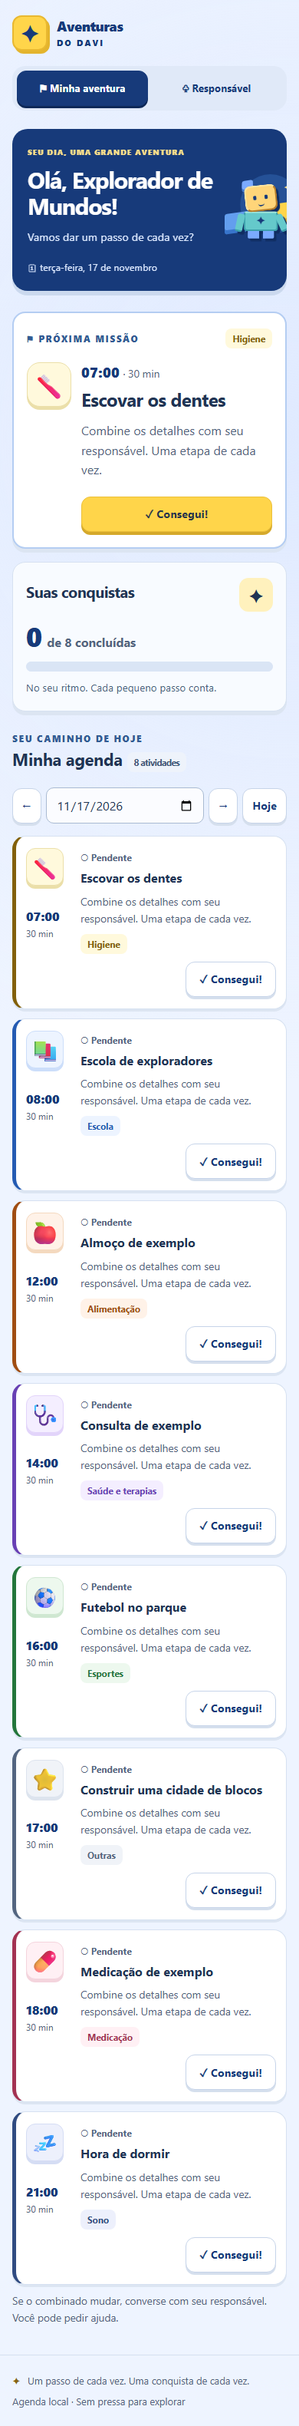
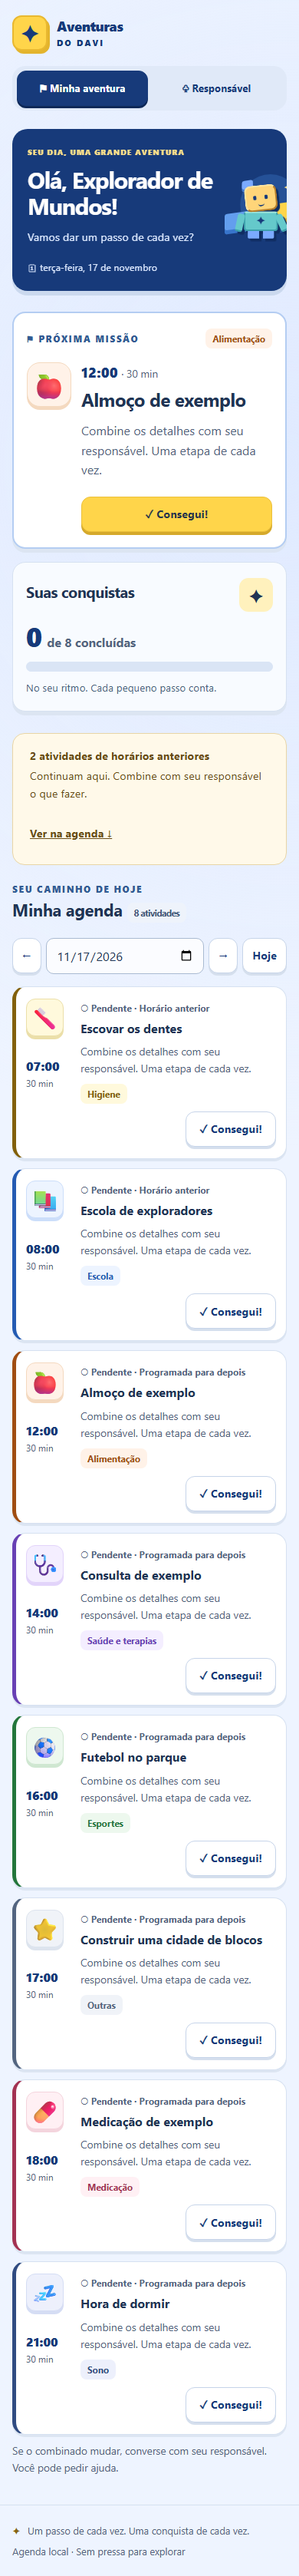
fix: ajustar categorias e distinguir pendencias de horarios anteriores

Changed region(s): [[0.0308, 0.0, 0.9846, 0.9921]]

diff --git a/app.js b/app.js
@@ -138,7 +138,7 @@ function layout(html) {
   nav();
   if (inside) {
     const match = [
-      ...$("content").querySelectorAll("button,input,select,textarea"),
+      ...$("content").querySelectorAll("button,input,select,textarea,a"),
     ].find((el) =>
       key.id
         ? el.id === key.id
@@ -197,12 +197,12 @@ function category(e) {
   const rules = [
     [
       "medicine",
-      /\b(medicacao|medicamento|remedio|vitamina|comprimido)\b/,
+      /\b(medicacao|medicamento|remedio|vitamina|comprimido|ferro\s+(?:em\s+)?gotas)\b/,
       ["💊"],
     ],
     [
       "health",
-      /\b(terapia|terapeuta|psicolog[ao]|fono|fisioterapia|consulta|medic[ao]|dentista)\b/,
+      /\b(terapia|terapeuta|psicolog[ao]|psicopedagog(?:[ao]|ia)|fono|fisioterapia|consulta|medic[ao]|dentista)\b/,
       ["🩺", "🧩"],
     ],
     ["sleep", /\b(dormir|sono|descanso|soneca)\b/, ["💤", "🌙", "🛏"]],
@@ -218,7 +218,7 @@ function category(e) {
     ],
     [
       "sport",
-      /\b(futebol|natacao|esporte|basquete|volei|corrida|karate|judo)\b/,
+      /\b(taekwondo|futsal|futebol|natacao|esporte|basquete|volei|corrida|karate|judo)\b/,
       ["⚽", "🏊", "🏀"],
     ],
     [
@@ -258,7 +258,57 @@ function doneButton(e, featured = false) {
     "</button>"
   );
 }
-function eventHtml(e, admin = false) {
+// Compare in the calendar's timezone, independently of the device timezone.
+function calendarClock(now = new Date()) {
+  const parts = Object.fromEntries(
+    new Intl.DateTimeFormat("en-CA", {
+      timeZone: "America/Sao_Paulo",
+      year: "numeric",
+      month: "2-digit",
+      day: "2-digit",
+      hour: "2-digit",
+      minute: "2-digit",
+      hourCycle: "h23",
+    })
+      .formatToParts(now)
+      .map((p) => [p.type, p.value]),
+  );
+  return {
+    date: parts.year + "-" + parts.month + "-" + parts.day,
+    time: parts.hour + ":" + parts.minute,
+  };
+}
+function eventPeriod(e, clock) {
+  if (e.date < clock.date || (e.date === clock.date && e.time < clock.time))
+    return "earlier";
+  return e.date === clock.date && e.time === clock.time ? "now" : "later";
+}
+function dayPlan(events, clock = calendarClock()) {
+  const pending = events.filter((e) => !e.done);
+  return {
+    next: pending.find((e) => eventPeriod(e, clock) !== "earlier"),
+    earlier: pending.filter((e) => eventPeriod(e, clock) === "earlier"),
+  };
+}
+function pendingLabel(e, clock) {
+  return {
+    earlier: "○ Pendente · Horário anterior",
+    now: "○ Pendente · Neste horário",
+    later: "○ Pendente · Programada para depois",
+  }[eventPeriod(e, clock)];
+}
+function earlierNotice(count) {
+  return count
+    ? '<aside class="earlier-notice" aria-label="Pendências de horários anteriores"><div><strong>' +
+        count +
+        " " +
+        (count === 1
+          ? "atividade de horário anterior"
+          : "atividades de horários anteriores") +
+        '</strong><p>Continuam aqui. Combine com seu responsável o que fazer.</p></div><a id="earlierLink" href="#dailyAgenda">Ver na agenda ↓</a></aside>'
+    : "";
+}
+function eventHtml(e, admin = false, clock = calendarClock()) {
   const controls = admin
     ? '<div class="row admin-actions"><button data-action="edit" data-id="' +
       e.id +
@@ -282,7 +332,7 @@ function eventHtml(e, admin = false) {
     ' min</span></div><span class="symbol" aria-hidden="true">' +
     esc(e.icon || "⭐") +
     '</span><div class="info"><span class="state-label">' +
-    (e.done ? "✓ Concluída" : "○ Pendente") +
+    (e.done ? "✓ Concluída" : admin ? "○ Pendente" : pendingLabel(e, clock)) +
     "</span><h3>" +
     esc(e.title) +
     "</h3>" +
@@ -296,7 +346,9 @@ function eventHtml(e, admin = false) {
 function mascot() {
   return '<div class="landscape" aria-hidden="true"><span class="spark">✦</span><div class="block one"></div><div class="block two"></div><div class="block three"></div><div class="mascot"><div class="mascot-feet"></div><div class="mascot-body">✦</div><div class="mascot-head"></div></div></div>';
 }
-function nextMission(e, hasEvents) {
+function nextMission(e, hasEvents, earlierCount = 0) {
+  if (!e && earlierCount)
+    return '<section class="panel mission empty"><span class="symbol" aria-hidden="true">🗓</span><h2>Vamos rever o combinado?</h2><p>Não há próximos horários nesta data. As pendências de horários anteriores continuam na agenda.</p></section>';
   if (!e)
     return (
       '<section class="panel mission empty"><span class="symbol" aria-hidden="true">' +
@@ -339,9 +391,14 @@ async function child() {
   state.view = "child";
   state.date = state.date || state.me.today;
   await fetchCalendar(state.date, state.date);
+  renderChild();
+}
+function renderChild() {
+  const clock = calendarClock();
+  state.childPeriods = periodSignature(clock);
   const es = dayEvents(state.date),
     done = es.filter((e) => e.done).length,
-    next = es.find((e) => !e.done),
+    plan = dayPlan(es, clock),
     pct = es.length ? Math.round((done / es.length) * 100) : 0;
   layout(
     '<div class="hero"><div class="hero-copy"><div class="eyebrow">Seu dia, uma grande aventura</div><h1>Olá, ' +
@@ -353,7 +410,7 @@ async function child() {
       "</div>" +
       tagHoliday(state.date) +
       '<div class="dashboard">' +
-      nextMission(next, es.length > 0) +
+      nextMission(plan.next, es.length > 0, plan.earlier.length) +
       '<section class="panel progress-card" aria-labelledby="progressTitle"><div class="progress-heading"><h2 id="progressTitle">Suas conquistas</h2><span class="progress-icon" aria-hidden="true">✦</span></div><div class="progress-total">' +
       done +
       " <span>de " +
@@ -373,14 +430,17 @@ async function child() {
         ? "Olha só o que você já fez! Cada passo conta."
         : "No seu ritmo. Cada pequeno passo conta.") +
       "</p></section></div>" +
-      '<section aria-labelledby="agendaTitle"><div class="section-heading"><div><div class="eyebrow">Seu caminho de hoje</div><h2 id="agendaTitle">Minha agenda <span class="tag">' +
+      earlierNotice(plan.earlier.length) +
+      '<section id="dailyAgenda" tabindex="-1" aria-labelledby="agendaTitle"><div class="section-heading"><div><div class="eyebrow">Seu caminho de hoje</div><h2 id="agendaTitle">Minha agenda <span class="tag">' +
       es.length +
       ' atividades</span></h2></div><div class="date-nav"><button data-action="childprev" aria-label="Dia anterior">←</button><input id="childDate" type="date" aria-label="Escolher dia" value="' +
       state.date +
       '"><button data-action="childnext" aria-label="Próximo dia">→</button><button data-action="childtoday">Hoje</button></div></div>' +
       (es.length
         ? '<ol class="task-list">' +
-          es.map((e) => "<li>" + eventHtml(e) + "</li>").join("") +
+          es
+            .map((e) => "<li>" + eventHtml(e, false, clock) + "</li>")
+            .join("") +
           "</ol>"
         : '<p class="sub">Quando houver atividades, elas aparecerão aqui em ordem de horário.</p>') +
       '</section><p class="sub small">Se o combinado mudar, converse com seu responsável. Você pode pedir ajuda.</p>',
@@ -710,6 +770,26 @@ $("brand").addEventListener("click", (e) => {
   e.preventDefault();
   safe(child);
 });
+// Refresh only when an activity changes time group; preserve focus and avoid needless renders.
+function periodSignature(clock) {
+  return JSON.stringify(
+    dayEvents(state.date).map((e) => [
+      e.id,
+      e.done ? "done" : eventPeriod(e, clock),
+    ]),
+  );
+}
+function refreshChildClock() {
+  if (
+    !document.hidden &&
+    state.view === "child" &&
+    state.me &&
+    !busy &&
+    state.childPeriods !== periodSignature(calendarClock())
+  )
+    renderChild();
+}
+
 safe(async () => {
   state.me = await api("/api/me");
   state.date = state.me.today;
@@ -717,3 +797,6 @@ safe(async () => {
   state.selected = state.date;
   await child();
 });
+
+setInterval(refreshChildClock, 60000);
+document.addEventListener("visibilitychange", refreshChildClock);

diff --git a/app.css b/app.css
@@ -1244,3 +1244,30 @@ code {
     flex-wrap: wrap;
   }
 }
+.earlier-notice {
+  display: flex;
+  align-items: center;
+  justify-content: space-between;
+  gap: 16px;
+  flex-wrap: wrap;
+  padding: 18px 22px;
+  margin: 0 0 24px;
+  border: 1px solid #e8d5a6;
+  border-radius: 16px;
+  background: #fff9e9;
+  color: #694d17;
+  font-size: 0.9rem;
+}
+.earlier-notice p {
+  margin: 5px 0 0;
+}
+.earlier-notice a {
+  min-height: 46px;
+  display: flex;
+  align-items: center;
+  font-weight: 750;
+  color: #694d17;
+}
+#dailyAgenda {
+  scroll-margin-top: 20px;
+}

diff --git a/README.md b/README.md
@@ -6,7 +6,7 @@ Projeto familiar para acompanhar os compromissos do Davi e desenvolver autonomia
 
 Identidade original com fundo claro, azul profundo, amarelo solar, mascote geométrico feito em CSS e botões com sombras táteis. Fontes, ícones e ilustrações são locais; nenhuma dependência de internet foi adicionada à aplicação.
 
-A **área infantil** prioriza a primeira atividade pendente do dia escolhido, com horário, descrição curta e botão “Consegui!”. A barra mostra a quantidade efetivamente concluída; a agenda abaixo mantém a ordem dos horários, descrições completas e opção de desfazer. Nenhuma atividade é concluída pela passagem do tempo. Categorias são apenas pistas visuais, com texto, símbolo e cor, sem mudar os registros.
+A **área infantil** prioriza a próxima atividade pendente com horário igual ou posterior ao atual na data escolhida, com horário, descrição curta e botão “Consegui!”. A barra mostra a quantidade efetivamente concluída; a agenda abaixo mantém a ordem dos horários, descrições completas e opção de desfazer. Pendências de horários anteriores continuam visíveis, com aviso e identificação na lista. Nenhuma atividade é concluída pela passagem do tempo. Categorias são apenas pistas visuais, com texto, símbolo e cor, sem mudar os registros.
 
 A **área do responsável** mantém o calendário mensal, formulários e senha. Em celulares, cada dia mostra a quantidade de atividades e um símbolo de feriado; ao selecionar o dia, a lista completa e o nome do feriado aparecem abaixo. Em telas maiores, o calendário também mostra prévias dos compromissos.
 
@@ -108,7 +108,7 @@ O script inicia seu próprio servidor na porta 18876, com `DAVI_DATA_DIR` em dir
 ## Limitações da v0.3
 
 - A categoria é inferida pelo título e depois pelo ícone; textos ambíguos podem aparecer em “Outras”. É apenas apresentação.
-- A próxima missão é a primeira atividade pendente na ordem da API, inclusive se o horário já passou; não há relógio de execução nem início automático.
+- A próxima missão considera data e hora de Florianópolis (`America/Sao_Paulo`), usando o relógio do computador. Um horário anterior permanece pendente até confirmação manual, sem representar atraso ou falha. A duração não indica execução em andamento; não há início automático.
 - A descrição em destaque é resumida a 160 caracteres; o texto completo permanece na agenda.
 - O jogo guiado do `index.html` ainda é independente. Nenhum botão sugere uma integração inexistente.
 - Os testes automatizados de acessibilidade não substituem avaliação com leitor de tela ou observação de uso pela família. Outros navegadores e toque físico não foram avaliados nesta entrega.
